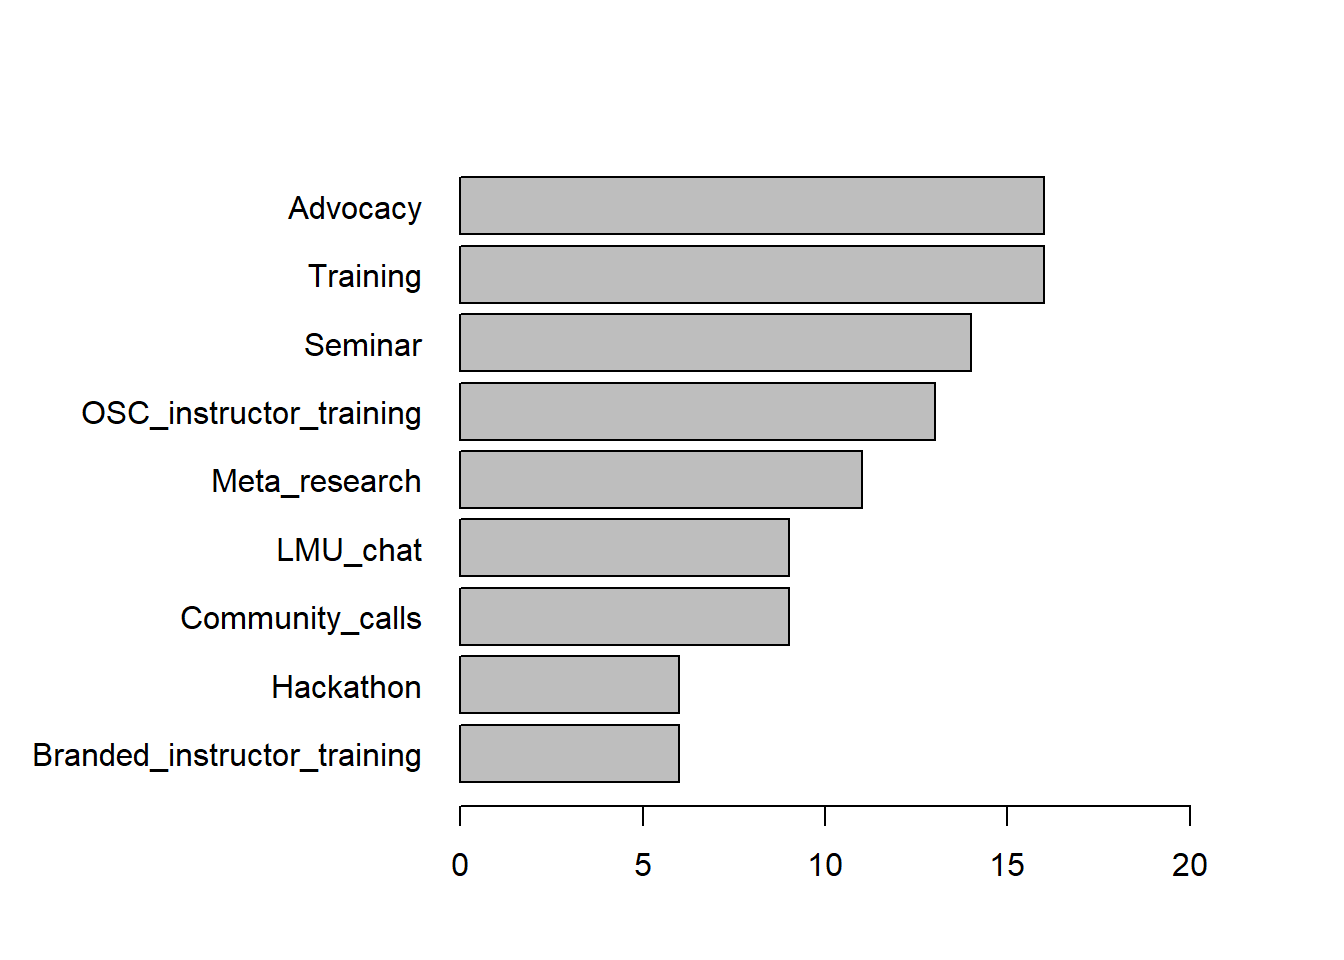
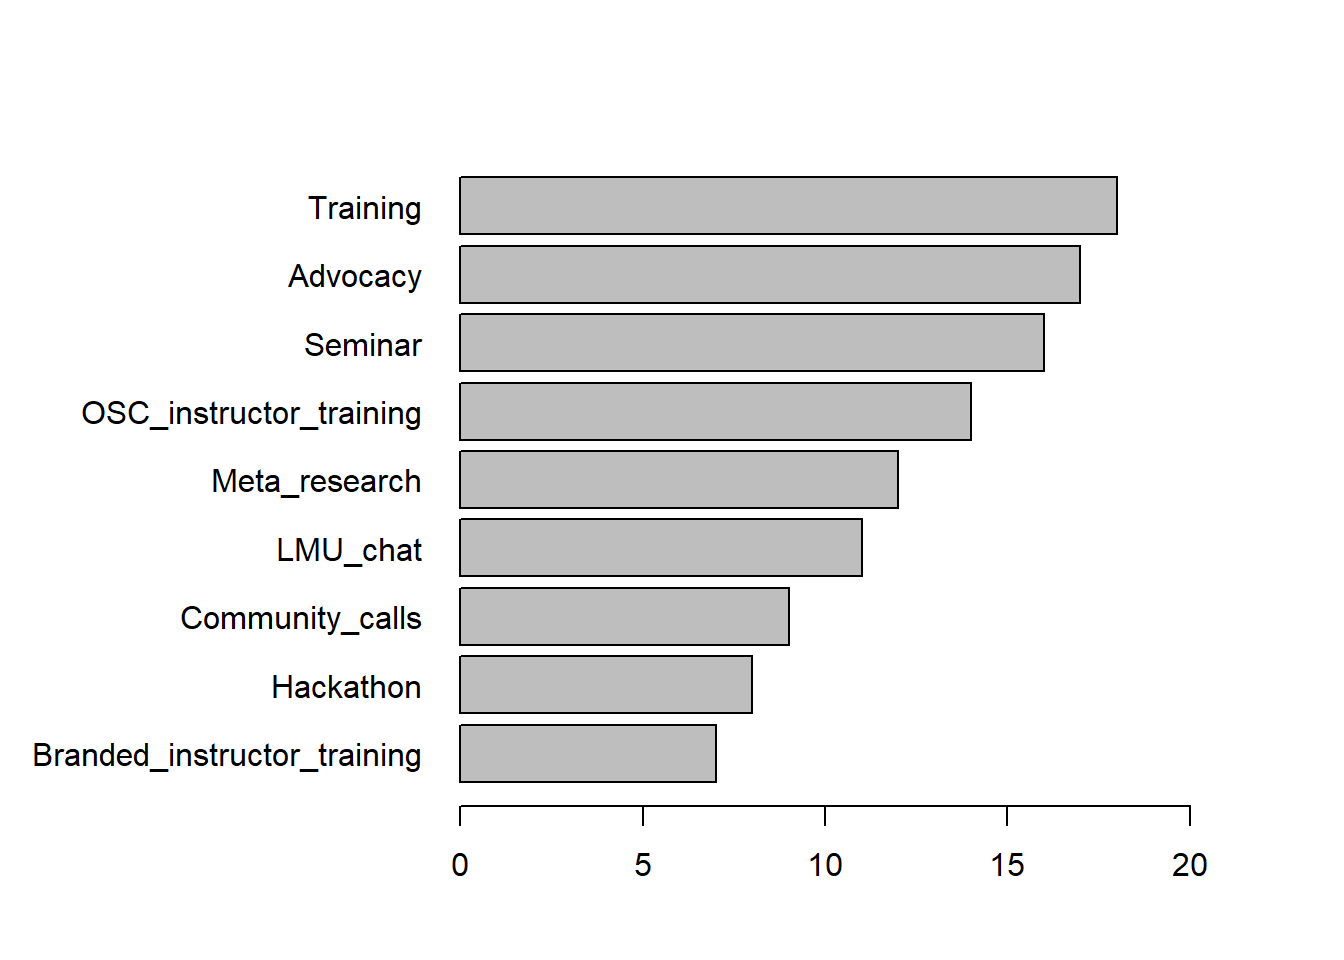
new data 02.11

diff --git a/OSC survery results.html b/OSC survery results.html
@@ -59,7 +59,7 @@ ul.task-list{list-style: none;}
 <div class="cell">
 
 </div>
-<p>Total number of participant in the OSC survey: <strong>23</strong></p>
+<p>Total number of participant in the OSC survey: <strong>26</strong></p>
 </section>
 <section id="survey-resuts" class="level2">
 <h2 class="anchored" data-anchor-id="survey-resuts">Survey Resuts</h2>
@@ -71,7 +71,7 @@ ul.task-list{list-style: none;}
 <div class="cell-output cell-output-stdout">
 <pre><code>
  No Yes 
- 11  12 </code></pre>
+ 13  13 </code></pre>
 </div>
 </div>
 </section>
@@ -81,7 +81,7 @@ ul.task-list{list-style: none;}
 <div class="cell-output cell-output-stdout">
 <pre><code>
 Germany     LMU  Munich 
-      3      18       2 </code></pre>
+      4      20       2 </code></pre>
 </div>
 </div>
 </section>
@@ -91,7 +91,7 @@ Germany     LMU  Munich
 <div class="cell-output cell-output-stdout">
 <pre><code>
 Art, humanities, history, linguistics, and culture science 
-                                                         2 
+                                                         3 
                            Biology, Chemistry, Geosciences 
                                                          1 
                    Law, Economics, Business Administration 
@@ -101,7 +101,7 @@ Art, humanities, history, linguistics, and culture science
                              Medicine, Veterinary medicine 
                                                          4 
          Social sciences, Psychology, educational sciences 
-                                                        11 </code></pre>
+                                                        13 </code></pre>
 </div>
 </div>
 </section>
@@ -110,8 +110,8 @@ Art, humanities, history, linguistics, and culture science
 <div class="cell">
 <div class="cell-output cell-output-stdout">
 <pre><code>
-    MSc   other     PhD      PI Postdoc 
-      1       2       7       9       4 </code></pre>
+         MSc        other          PhD           PI      Postdoc Supportstaff 
+           1            2            8            9            4            2 </code></pre>
 </div>
 <div class="cell-output cell-output-stdout">
 <pre><code>
